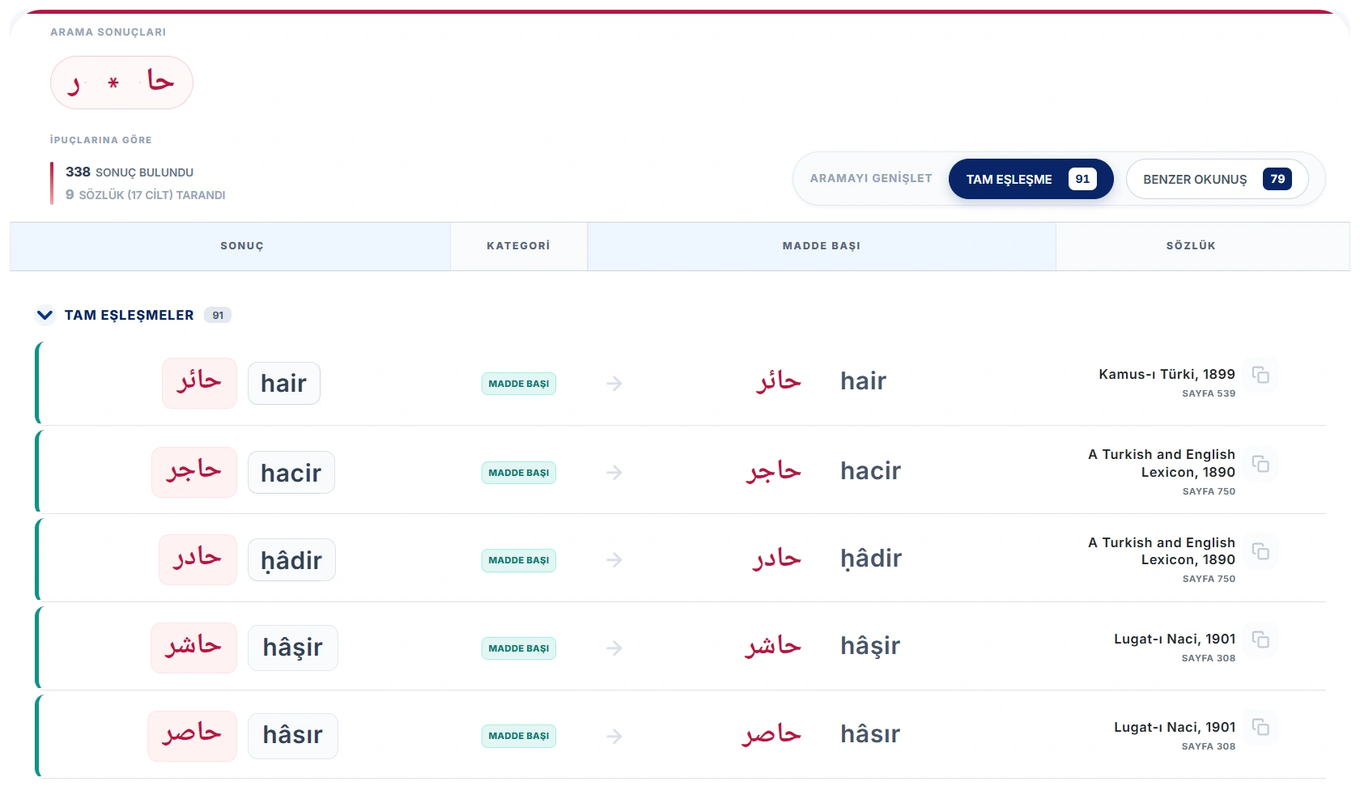
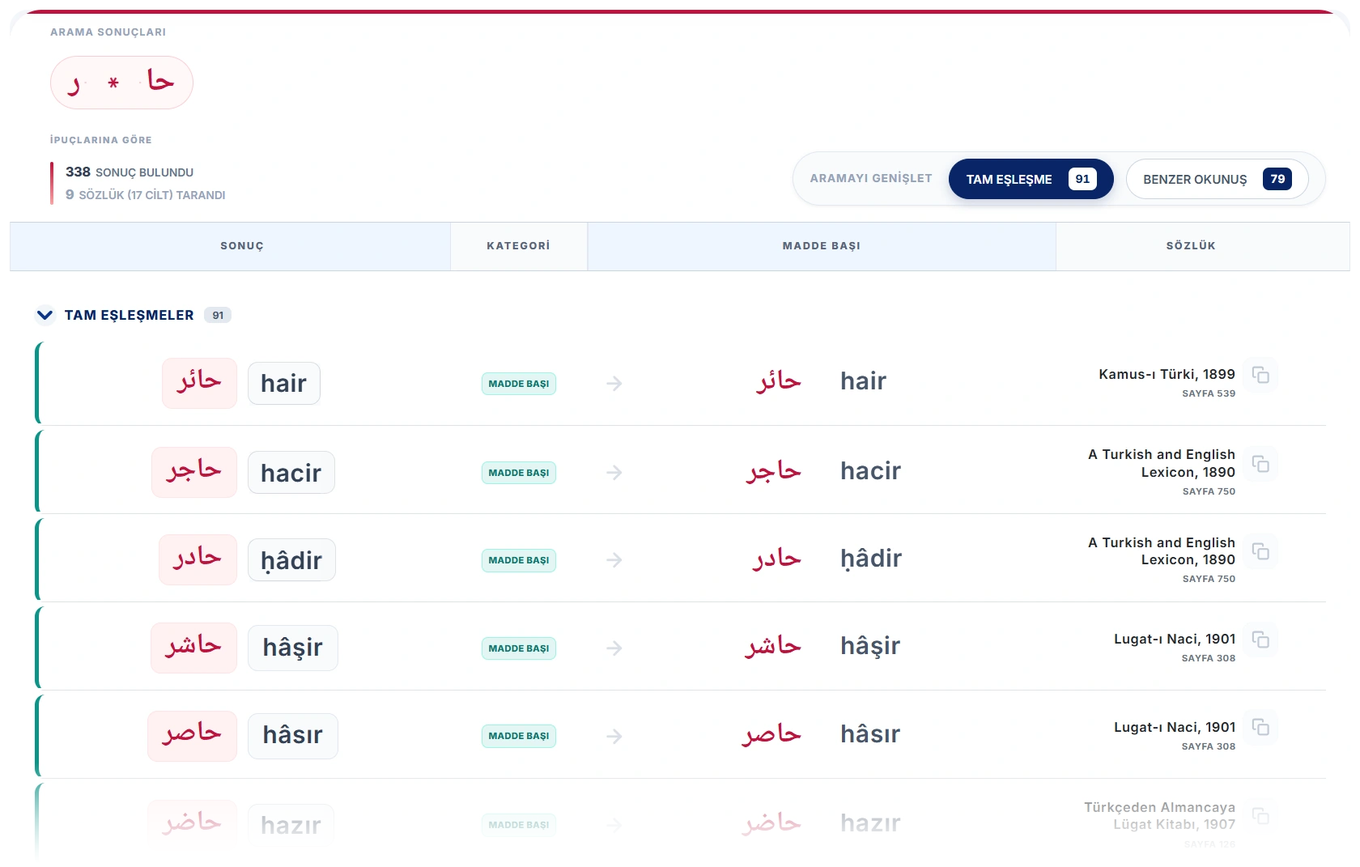
Kilavuz B: kutular ve cozucu klavyesi tek genel gorunumde (B1, B2 etiketleri); sonuclar B4 olarak B'ye tasindi, hazir satiri solan son satir olarak eklendi

diff --git a/pages/kullanim-kilavuzu-tr.html b/pages/kullanim-kilavuzu-tr.html
@@ -81,7 +81,7 @@ h2{margin:3.1rem 0 1.05rem;padding-top:.25rem}
   <div class="layout">
       <nav class="toc" aria-label="Bu sayfada"><p class="toc-title">Bu sayfada</p><a href="#ana-sayfa">Ana Sayfa</a><a href="#cozucu">Kelime Çözücü</a><a href="#sonuclar">Sonuçlar</a><a href="#sozluk-sayfasi">Sözlük Sayfası</a><a href="#cozucu-sonuc">Kelime Çözücü Sonuçları</a></nav>
       <main class="guide-steps">
-    <section aria-labelledby="ana-sayfa"><h2 id="ana-sayfa">Ana Sayfa</h2><p class="section-intro">LexiQamus iki ayrı arama biçimi sunar. <b>Ara</b> sekmesi okuyabildiğiniz bir kelimeyi doğrudan aramak, <b>Kelime Çözücü</b> ise okuyamadığınız bir kelimeyi elinizdeki ipuçlarından yola çıkarak tespit etmek içindir. İki sekme arasında istediğiniz an geçiş yapabilirsiniz.</p><figure class="shot shot-map" style="--nw:1879;--ar:6.8828"><div class="map"><img src="../assets/kilavuz/a-genel.webp?v=2" width="1879" height="273" alt="Ana sayfanın arama alanı: Kelime Çözücü ve Ara sekmeleri, arama kutusu, Ara düğmesi ve sözlük listesi"><a class="pin pin-sec pin-top" href="#cozucu" style="--x:44.39%;--ty:0.0769" aria-label="B">B</a><a class="pin  pin-top" href="#ara-genel" style="--x:55.56%;--ty:0.0769" aria-label="A1">A1</a><a class="pin  pin-bottom" href="#iki-taraf" style="--x:6.55%;--ty:0.7289" aria-label="A2">A2</a><a class="pin  pin-bottom" href="#klavye" style="--x:55.51%;--ty:0.7363" aria-label="A3">A3</a><a class="pin  pin-bottom" href="#sozlukler" style="--x:83.18%;--ty:0.7326" aria-label="A4">A4</a></div></figure><article class="block" id="ara-genel"><h3>Ara sekmesi</h3><p>Arama satırı tek bir çubuktan oluşur: solda kelimeyi Latin harfleriyle, sağda Osmanlı harfleriyle yazabileceğiniz alanlar, hemen yanında da hangi sözlüklerde arama yapılacağını belirlediğiniz liste yer alır.</p></article><article class="block" id="iki-taraf"><h3>Arama kutusu: iki taraf, iki alfabe</h3><p>Çubuğun solundaki <b>OSM</b> ve <b>İNG</b> düğmeleri aramanın neyin içinde yapılacağını belirler. <b>OSM</b> seçiliyken Osmanlıca kelime aranır. <b>İNG</b> seçildiğinde ise arama, sözlüklerdeki İngilizce tanımların içinde yapılır; böylece bir İngilizce kelimeyi tanımında geçiren bütün maddeleri görebilirsiniz.</p><p>Kutunun solundaki alan Latin harfleri, sağındaki alan Osmanlı harfleri içindir. İkisini birlikte kullanabilirsiniz: kelimeyi nasıl okuduğunuzu biliyorsanız Latin tarafına yazmanız yeterlidir.</p><figure class="shot " style="--nw:1686;--ar:11.7902"><img src="../assets/kilavuz/a2-1.webp?v=2" width="1686" height="143" loading="lazy" alt=""></figure></article><article class="block" id="klavye"><h3>Osmanlıca yazmak</h3><p>Osmanlıca tarafa tıkladığınızda ekran klavyesi açılır. Harflere tek tek tıklayarak yazabilirsiniz.</p><p>Fakat klavyeyi kullanmak zorunda değilsiniz. Her tuşun üzerinde, o harfe karşılık gelen fiziksel klavye tuşu yazılıdır: <b>A</b> tuşu ا, <b>B</b> tuşu ب, <b>SHF+S</b> ص harfini verir. Yani kelimeyi kendi klavyenizden hızlıca yazabilir, sadece emin olmadığınız harfler için ekrana bakabilirsiniz.</p><figure class="shot " style="--nw:1592;--ar:3.3305"><img src="../assets/kilavuz/a3-1.webp?v=2" width="1592" height="478" loading="lazy" alt=""></figure></article><article class="block" id="sozlukler"><h3>Sözlük seçimi</h3><p>Öntanımlı olarak bütün sözlüklerde arama yapılır. Listeyi açıp <b>Tümünü Seç</b> işaretini kaldırdığınızda sözlükleri tek tek seçebilirsiniz.</p><p>Bu, aramayı belirli eserlerle sınırlamak istediğinizde işinize yarar: yalnızca seçtiğiniz sözlüklerden gelen sonuçlar listelenir.</p><figure class="shot shot-narrow" style="--s:0.75;--nw:613;--ar:0.8490"><img src="../assets/kilavuz/a4-1.webp?v=2" width="613" height="722" loading="lazy" alt=""></figure></article></section><section aria-labelledby="cozucu"><h2 id="cozucu">Kelime Çözücü</h2><p class="section-intro">El yazması bir metinde okuyamadığınız bir kelimeyle karşılaştığınızda kullanacağınız araç budur. Okuyabildiğiniz harfleri girer, okuyamadıklarınız için işaret bırakırsınız; LexiQamus bu ölçütlere uyan kelimeleri listeler.</p><article class="block" id="kutular"><h3>Kutular</h3><p>Her kutu bir karakteri temsil eder. Boş bırakılan kutu boşluk demektir, dolayısıyla tek kelimeleri olduğu gibi kelime öbeklerini de arayabilirsiniz.</p><p>Kutuların arasındaki <b>+</b> düğmeleriyle araya yeni kutu eklersiniz. Kutuların altındaki zincir işaretleri harflerin bitişik olup olmadığını gösterir; bunu belirttiğinizde sonuçlar daralır.</p><figure class="shot " style="--s:0.75;--nw:742;--ar:5.9839"><img src="../assets/kilavuz/b1-1.webp?v=2" width="742" height="124" loading="lazy" alt=""></figure></article><article class="block" id="cozucu-klavye"><h3>Çözücü klavyesi</h3><p>Bir kutuya tıkladığınızda harf klavyesi açılır. Buradan hem normal harfleri hem de benzer şekilli harfleri temsil eden özel karakterleri girebilirsiniz.</p><p>Üstteki iki yeşil tuş önemlidir. <b>*</b> okunamayan tek bir harf demektir. <b>∞</b> ise adedi bilinmeyen, bir veya birden fazla okunamayan harf anlamına gelir. Aramanız sonuç vermiyorsa, emin olmadığınız kısma bu işaretleri koyarak aramayı genişletebilirsiniz.</p><p>Bir kutuya birden fazla harf de girebilirsiniz. و, د ve ر gibi birbirine karışan harflerde, ihtimallerin hepsini aynı kutuya koyup hepsini birden aratmış olursunuz.</p><figure class="shot " style="--s:0.6;--nw:1004;--ar:1.1319"><img src="../assets/kilavuz/b2-1.webp?v=2" width="1004" height="887" loading="lazy" alt=""></figure></article><article class="block" id="ipucu-dolu"><h3>Doldurulmuş bir örnek</h3><p>Aşağıda okunabilen harflerin girildiği, okunamayan bir harf için <b>*</b> bırakılan ve harfler arası bitişiklik durumunun işaretlendiği bir çözücü satırı görünüyor. <b>Ara</b> düğmesine bastığınızda bu ölçütlere uyan kelimeler listelenir.</p><figure class="shot " style="--s:.68;--nw:669;--ar:5.3095"><img src="../assets/kilavuz/b3-1.webp?v=2" width="669" height="126" loading="lazy" alt=""></figure></article></section><section aria-labelledby="sonuclar"><h2 id="sonuclar">Sonuçlar</h2><p class="section-intro">Her iki arama biçimi de sizi aynı sonuç listesine götürür. Liste dört sütuna ayrılmıştır ve her satır, bir sözlükte geçen tek bir kaydı gösterir.</p><article class="block" id="sutunlar"><h3>Dört sütun</h3><p><b>Sonuç</b>: aradığınız ölçütlere uyan kelimenin kendisi, Osmanlıca yazılışı ve Latin okunuşuyla birlikte.</p><p><b>Kategori</b>: bu kelimenin bulunduğu sözlük maddesiyle ilişkisi.</p><p><b>Madde Başı</b>: kelimenin geçtiği maddenin başlığı. Sonuç kelimesinin kendisi bir madde başı olabileceği gibi, başka bir maddenin içinde de geçiyor olabilir.</p><p><b>Sözlük</b>: kaydın alındığı eser, basım yılı ve sayfa numarası.</p><figure class="shot " style="--nw:1680;--ar:1.6935"><img src="../assets/kilavuz/c1-1.webp?v=5" width="1680" height="992" loading="lazy" alt=""></figure></article><article class="block" id="iki-bolge"><h3>Satırda iki tıklama bölgesi</h3><p>Her satır iki ayrı bölgeye ayrılır ve hangisine tıkladığınız sizi farklı yere götürür. İmleci satırın üzerine getirdiğinizde hangi bölgede olduğunuz renklenerek belli olur.</p><p>Sol bölge, yani sonuç kelimesinin kendisi: <b>Sonuca git</b>. Orijinal sözlük sayfası açılır ve doğrudan kelimenin geçtiği yer karşınıza gelir. Buradan yukarı kaydırarak maddenin başına da çıkabilirsiniz.</p><p>Sağ bölge, yani madde başı ve sözlük bilgisi: <b>Madde başına git</b>. Aynı sayfa açılır, fakat bu kez doğrudan maddenin başından.</p><figure class="shot " style="--nw:1700;--ar:9.6045"><img src="../assets/kilavuz/c2-1.webp" width="1700" height="177" loading="lazy" alt=""></figure><figure class="shot " style="--nw:1700;--ar:9.6045"><img src="../assets/kilavuz/c2-2.webp" width="1700" height="177" loading="lazy" alt=""></figure></article><article class="block" id="kategoriler"><h3>Kelime kategorileri</h3><p>Kategori etiketi, sonucun maddeyle nasıl bir ilişki içinde olduğunu söyler ve satırın solundaki renkli çizgi de aynı ayrımı yapar.</p><p><b>Madde Başı</b>: kelime, sözlükte kendi adına açılmış bir maddenin başlığıdır.</p><p><b>Alt Madde Başı</b>: kelime, bir madde başının altında ayrıca ele alınmış bir alt maddedir.</p><p><b>İlişkili</b>: kelime maddenin başlığı değildir, madde içinde geçmektedir yahut o maddeyle bağlantılıdır.</p><figure class="shot " style="--nw:1700;--ar:5.0595"><img src="../assets/kilavuz/c3-1.webp" width="1700" height="336" loading="lazy" alt=""></figure></article><article class="block" id="geribildirim"><h3>Latin okunuşlar ve geri bildirim</h3><p>Sonuçların yanındaki Latin okunuşlar, Osmanlıca yazılıştan hareketle yapay zekâ tarafından üretilmiştir. Bu yüzden her zaman isabetli olmayabilir.</p><p>Okunuşun yanındaki üç düğme burada devreye girer. Okunuş yanlışsa çarpı düğmesiyle düzeltme önerebilir, doğruysa onay düğmesiyle teyit edebilir, söylemek istediğiniz başka bir şey varsa balon düğmesinden yorumunuzu iletebilirsiniz.</p><figure class="shot shot-narrow" style="--s:0.75;--nw:528;--ar:6.6835"><img src="../assets/kilavuz/c4-1.webp?v=2" width="528" height="79" loading="lazy" alt=""></figure></article><article class="block" id="sozluk-kunye"><h3>Sözlük ve künye</h3><p>Sütunun sağ ucundaki düğme o kaydın künye bilgilerini açar. Eserin adı, yazarı, yılı, cildi ve sayfası burada toplu olarak yer alır.</p><p>Künye penceresinde atıf üç ayrı biçimde hazır olarak sunulur: APA, Chicago ve Harvard. Kullanacağınız biçimi seçip tek düğmeyle kopyalayabilirsiniz.</p><figure class="shot shot-narrow" style="--s:0.75;--nw:578;--ar:3.7532"><img src="../assets/kilavuz/c5-1.webp" width="578" height="154" loading="lazy" alt=""></figure><figure class="shot shot-mid" style="--s:0.45;--nw:1263;--ar:1.1187"><img src="../assets/kilavuz/c5-2.webp?v=2" width="1263" height="1129" loading="lazy" alt=""></figure></article><article class="block" id="yazilis-okunus"><h3>Yazılışa göre ara ve Benzer Okunuş</h3><p><b>Yazılışa Göre Ara</b>, aradığınız ifadenin muhtemel yazılış ve okunuşlarını düğmeler halinde sunar. Bir düğmeye tıkladığınızda arama o yazılışa göre yenilenir. Aynı kelimenin sözlüklerde farklı imlalarla kayıtlı olabileceği düşünülürse, sonuca ulaşmanın en kısa yollarından biri budur.</p><p><b>Benzer Okunuş</b> ise aramanızı genişletir: yazılışı farklı olsa da okunuşu aradığınıza yakın düşen sonuçları getirir. Yanındaki sayı, bu genişletmenin kaç sonuç eklediğini gösterir.</p><figure class="shot " style="--s:0.75;--nw:678;--ar:3.2286"><img src="../assets/kilavuz/c6-1.webp?v=2" width="678" height="210" loading="lazy" alt=""></figure></article><article class="block" id="tara"><h3>Benzer Eşleşmeleri Tara</h3><p>Aradığınızı listede bulamadıysanız sayfanın altındaki bu düğmeye basın.</p><p>LexiQamus, girdiğiniz yazılışa harf harf yakın duran kelimeleri tarar ve numaralı bir liste halinde önünüze getirir. Yanlış okunmuş tek bir harf yüzünden gözden kaçan kelime çoğu zaman bu listede çıkar.</p><figure class="shot shot-narrow" style="--s:0.75;--nw:387;--ar:3.7212"><img src="../assets/kilavuz/c7-1.webp?v=2" width="387" height="104" loading="lazy" alt=""></figure><figure class="shot shot-mid" style="--nw:528;--ar:0.7021"><img src="../assets/kilavuz/c7-2.webp" width="528" height="752" loading="lazy" alt=""></figure></article></section><section aria-labelledby="sozluk-sayfasi"><h2 id="sozluk-sayfasi">Sözlük Sayfası</h2><p class="section-intro">Bir sonuca yahut madde başına tıkladığınızda sözlüğün orijinal sayfası bir pencerede açılır. Bu pencere yalnızca taramayı göstermez: o sayfada dijitalleştirilmiş kelimeleri tarama üzerinde işaretler ve her birinin dijital karşılığını gösterir.</p><article class="block" id="dilim-sutun-sayfa"><h3>Dilim, Sütun, Sayfa</h3><p>Pencere ilk açıldığında <b>Dilim</b> görünümü etkindir. Alttaki şerit, aradığınız yerin sözlüğün kaçıncı sayfasında, hangi sütununda ve o sütunun kaçıncı diliminde olduğunu söyler.</p><p><b>Sütun</b>'a tıkladığınızda sütunun tamamı açılır. <b>Sayfa</b>'ya tıkladığınızda ise sayfanın tamamını görürsünüz. Dijitalleştirilmiş kelimeler üç görünümde de işaretli kalır.</p><figure class="shot " style="--nw:1428;--ar:1.8889"><img src="../assets/kilavuz/d1-1.webp" width="1428" height="756" loading="lazy" alt=""></figure><figure class="shot " style="--nw:1432;--ar:1.6947"><img src="../assets/kilavuz/d1-2.webp" width="1432" height="845" loading="lazy" alt=""></figure><figure class="shot " style="--nw:1436;--ar:1.6974"><img src="../assets/kilavuz/d1-3.webp" width="1436" height="846" loading="lazy" alt=""></figure></article><article class="block" id="renkli-kutular"><h3>Renkli kutular</h3><p>Maddede dijitalleştirilmiş olan kelimeler tarama üzerinde kutu içine alınır. Kutuların rengi kelime kategorisine göre değişir; sonuç listesindeki kategori ayrımının aynısı burada da geçerlidir.</p><p>Gri duran kelimeler de dijitalleştirilmiştir. Üzerlerine geldiğinizde renklenir ve dijital karşılıkları görünür.</p><figure class="shot " style="--nw:947;--ar:1.3886"><img src="../assets/kilavuz/d2-1.webp" width="947" height="682" loading="lazy" alt=""></figure></article><article class="block" id="kelime-uzerine"><h3>Kelimenin dijital karşılığı</h3><p>Bir kutunun üzerine geldiğinizde kelimenin Osmanlıca yazılışı ve Latin okunuşu alt alta belirir.</p><p>Kelime bir öbeğin parçasıysa iki katman birden görürsünüz: üstte imlecin bulunduğu kelimenin dijitali, altta öbeğin tamamının dijitali.</p><figure class="shot shot-narrow" style="--nw:222;--ar:0.6491"><img src="../assets/kilavuz/d3-1.webp" width="222" height="342" loading="lazy" alt=""></figure><figure class="shot shot-narrow" style="--nw:357;--ar:1.0142"><img src="../assets/kilavuz/d3-2.webp" width="357" height="352" loading="lazy" alt=""></figure></article><article class="block" id="kelimeye-tikla"><h3>Kelimeye tıklamak</h3><p>Tarama üzerindeki bir kelimeye yahut beliren dijital değerlerin üzerine tıkladığınızda o kelime için yeni bir arama başlar ve yeni sekmede açılır. Böylece okuduğunuz maddeden ayrılmadan yan yollara girebilirsiniz.</p><figure class="shot shot-narrow" style="--nw:357;--ar:1.0142"><img src="../assets/kilavuz/d4-1.webp" width="357" height="352" loading="lazy" alt=""></figure></article><article class="block" id="hata-bildir"><h3>Hata bildirme</h3><p>Dijitalleştirmede bir hata olduğunu düşünüyorsanız kelimenin üzerine gelin ve yanında beliren uyarı işaretine basın.</p><p>Açılan pencerede kelime hazır olarak gelir. Altındaki alana hatayı yahut önerdiğiniz düzeltmeyi yazıp gönderirsiniz.</p><figure class="shot shot-narrow" style="--nw:301;--ar:0.8776"><img src="../assets/kilavuz/d5-1.webp" width="301" height="343" loading="lazy" alt=""></figure><figure class="shot " style="--nw:756;--ar:1.8217"><img src="../assets/kilavuz/d5-2.webp" width="756" height="415" loading="lazy" alt=""></figure></article><article class="block" id="madde-gezinme"><h3>Önceki ve sonraki madde</h3><p>Pencerenin iki yanındaki oklarla maddeler arasında tek tıkla gezinebilirsiniz. Oklar dilim, sütun ve sayfa görünümlerinin hepsinde çalışır.</p><figure class="shot shot-narrow" style="--nw:413;--ar:1.9390"><img src="../assets/kilavuz/d6-1.webp" width="413" height="213" loading="lazy" alt=""></figure></article></section><section aria-labelledby="cozucu-sonuc"><h2 id="cozucu-sonuc">Kelime Çözücü Sonuçları</h2><p class="section-intro">Çözücüyle yapılan aramanın sonuç sayfası, yukarıda anlatılan listeyle aynı şekilde çalışır. Yalnızca iki farkı vardır.</p><article class="block" id="ipuclarina-gore"><h3>İpuçlarına göre</h3><p>Sonuçların üstünde, aramayı hangi ipuçlarıyla yaptığınız kutu dizisi halinde durur. Böylece listeye bakarken hangi harfleri girdiğinizi, nereye <b>*</b> veya <b>∞</b> koyduğunuzu görebilirsiniz.</p><p>Sonuç sayısının yanındaki <b>İpuçlarına göre</b> ifadesi de listenin bu ölçütlere göre oluşturulduğunu belirtir.</p><figure class="shot " style="--nw:1664;--ar:4.9672"><img src="../assets/kilavuz/e1-1.webp?v=2" width="1664" height="335" loading="lazy" alt=""></figure></article><article class="block" id="daha-fazla"><h3>Daha fazla sonuç</h3><p>Çözücü aramaları çok sayıda sonuç verebildiği için liste bir kısmıyla açılır. Sayfanın altındaki düğme kaç sonucun gösterildiğini ve geriye kaç tane kaldığını söyler; bastığınızda listenin devamı yüklenir.</p><figure class="shot shot-narrow" style="--nw:750;--ar:5.0000"><img src="../assets/kilavuz/e2-1.webp" width="750" height="150" loading="lazy" alt=""></figure></article></section>
+    <section aria-labelledby="ana-sayfa"><h2 id="ana-sayfa">Ana Sayfa</h2><p class="section-intro">LexiQamus iki ayrı arama biçimi sunar. <b>Ara</b> sekmesi okuyabildiğiniz bir kelimeyi doğrudan aramak, <b>Kelime Çözücü</b> ise okuyamadığınız bir kelimeyi elinizdeki ipuçlarından yola çıkarak tespit etmek içindir. İki sekme arasında istediğiniz an geçiş yapabilirsiniz.</p><figure class="shot shot-map" style="--nw:1879;--ar:6.8828"><div class="map"><img src="../assets/kilavuz/a-genel.webp?v=2" width="1879" height="273" alt="Ana sayfanın arama alanı: Kelime Çözücü ve Ara sekmeleri, arama kutusu, Ara düğmesi ve sözlük listesi"><a class="pin pin-sec pin-top" href="#cozucu" style="--x:44.39%;--ty:0.0769" aria-label="B">B</a><a class="pin  pin-top" href="#ara-genel" style="--x:55.56%;--ty:0.0769" aria-label="A1">A1</a><a class="pin  pin-bottom" href="#iki-taraf" style="--x:6.55%;--ty:0.7289" aria-label="A2">A2</a><a class="pin  pin-bottom" href="#klavye" style="--x:55.51%;--ty:0.7363" aria-label="A3">A3</a><a class="pin  pin-bottom" href="#sozlukler" style="--x:83.18%;--ty:0.7326" aria-label="A4">A4</a></div></figure><article class="block" id="ara-genel"><h3>Ara sekmesi</h3><p>Arama satırı tek bir çubuktan oluşur: solda kelimeyi Latin harfleriyle, sağda Osmanlı harfleriyle yazabileceğiniz alanlar, hemen yanında da hangi sözlüklerde arama yapılacağını belirlediğiniz liste yer alır.</p></article><article class="block" id="iki-taraf"><h3>Arama kutusu: iki taraf, iki alfabe</h3><p>Çubuğun solundaki <b>OSM</b> ve <b>İNG</b> düğmeleri aramanın neyin içinde yapılacağını belirler. <b>OSM</b> seçiliyken Osmanlıca kelime aranır. <b>İNG</b> seçildiğinde ise arama, sözlüklerdeki İngilizce tanımların içinde yapılır; böylece bir İngilizce kelimeyi tanımında geçiren bütün maddeleri görebilirsiniz.</p><p>Kutunun solundaki alan Latin harfleri, sağındaki alan Osmanlı harfleri içindir. İkisini birlikte kullanabilirsiniz: kelimeyi nasıl okuduğunuzu biliyorsanız Latin tarafına yazmanız yeterlidir.</p><figure class="shot " style="--nw:1686;--ar:11.7902"><img src="../assets/kilavuz/a2-1.webp?v=2" width="1686" height="143" loading="lazy" alt=""></figure></article><article class="block" id="klavye"><h3>Osmanlıca yazmak</h3><p>Osmanlıca tarafa tıkladığınızda ekran klavyesi açılır. Harflere tek tek tıklayarak yazabilirsiniz.</p><p>Fakat klavyeyi kullanmak zorunda değilsiniz. Her tuşun üzerinde, o harfe karşılık gelen fiziksel klavye tuşu yazılıdır: <b>A</b> tuşu ا, <b>B</b> tuşu ب, <b>SHF+S</b> ص harfini verir. Yani kelimeyi kendi klavyenizden hızlıca yazabilir, sadece emin olmadığınız harfler için ekrana bakabilirsiniz.</p><figure class="shot " style="--nw:1592;--ar:3.3305"><img src="../assets/kilavuz/a3-1.webp?v=2" width="1592" height="478" loading="lazy" alt=""></figure></article><article class="block" id="sozlukler"><h3>Sözlük seçimi</h3><p>Öntanımlı olarak bütün sözlüklerde arama yapılır. Listeyi açıp <b>Tümünü Seç</b> işaretini kaldırdığınızda sözlükleri tek tek seçebilirsiniz.</p><p>Bu, aramayı belirli eserlerle sınırlamak istediğinizde işinize yarar: yalnızca seçtiğiniz sözlüklerden gelen sonuçlar listelenir.</p><figure class="shot shot-narrow" style="--s:0.75;--nw:613;--ar:0.8490"><img src="../assets/kilavuz/a4-1.webp?v=2" width="613" height="722" loading="lazy" alt=""></figure></article></section><section aria-labelledby="cozucu"><h2 id="cozucu">Kelime Çözücü</h2><p class="section-intro">El yazması bir metinde okuyamadığınız bir kelimeyle karşılaştığınızda kullanacağınız araç budur. Okuyabildiğiniz harfleri girer, okuyamadıklarınız için işaret bırakırsınız; LexiQamus bu ölçütlere uyan kelimeleri listeler.</p><figure class="shot shot-map" style="--nw:1484;--ar:1.2938"><div class="map"><img src="../assets/kilavuz/b-genel.webp" width="1484" height="1147" alt="Kelime Çözücü: harf kutuları ve altında açılan çözücü klavyesi"><a class="pin pin-top" href="#kutular" style="--x:47.98%;--ty:0.0262" aria-label="B1">B1</a><a class="pin pin-bottom" href="#cozucu-klavye" style="--x:50.00%;--ty:0.9738" aria-label="B2">B2</a></div></figure><article class="block" id="kutular"><h3>Kutular</h3><p>Her kutu bir karakteri temsil eder. Boş bırakılan kutu boşluk demektir, dolayısıyla tek kelimeleri olduğu gibi kelime öbeklerini de arayabilirsiniz.</p><p>Kutuların arasındaki <b>+</b> düğmeleriyle araya yeni kutu eklersiniz. Kutuların altındaki zincir işaretleri harflerin bitişik olup olmadığını gösterir; bunu belirttiğinizde sonuçlar daralır.</p></article><article class="block" id="cozucu-klavye"><h3>Çözücü klavyesi</h3><p>Bir kutuya tıkladığınızda harf klavyesi açılır. Buradan hem normal harfleri hem de benzer şekilli harfleri temsil eden özel karakterleri girebilirsiniz.</p><p>Üstteki iki yeşil tuş önemlidir. <b>*</b> okunamayan tek bir harf demektir. <b>∞</b> ise adedi bilinmeyen, bir veya birden fazla okunamayan harf anlamına gelir. Aramanız sonuç vermiyorsa, emin olmadığınız kısma bu işaretleri koyarak aramayı genişletebilirsiniz.</p><p>Bir kutuya birden fazla harf de girebilirsiniz. و, د ve ر gibi birbirine karışan harflerde, ihtimallerin hepsini aynı kutuya koyup hepsini birden aratmış olursunuz.</p></article><article class="block" id="ipucu-dolu"><h3>Doldurulmuş bir örnek</h3><p>Aşağıda okunabilen harflerin girildiği, okunamayan bir harf için <b>*</b> bırakılan ve harfler arası bitişiklik durumunun işaretlendiği bir çözücü satırı görünüyor. <b>Ara</b> düğmesine bastığınızda bu ölçütlere uyan kelimeler listelenir.</p><figure class="shot " style="--s:.68;--nw:669;--ar:5.3095"><img src="../assets/kilavuz/b3-1.webp?v=2" width="669" height="126" loading="lazy" alt=""></figure></article><article class="block" id="cozucu-sonuclar"><h3>Sonuçlar</h3><p><b>Sonuç</b>: aradığınız ölçütlere uyan kelimenin kendisi, Osmanlıca yazılışı ve Latin okunuşuyla birlikte.</p><p><b>Kategori</b>: bu kelimenin bulunduğu sözlük maddesiyle ilişkisi.</p><p><b>Madde Başı</b>: kelimenin geçtiği maddenin başlığı. Sonuç kelimesinin kendisi bir madde başı olabileceği gibi, başka bir maddenin içinde de geçiyor olabilir.</p><p><b>Sözlük</b>: kaydın alındığı eser, basım yılı ve sayfa numarası.</p><figure class="shot " style="--nw:1680;--ar:1.5686"><img src="../assets/kilavuz/c1-1.webp?v=6" width="1680" height="1071" loading="lazy" alt=""></figure></article></section><section aria-labelledby="sonuclar"><h2 id="sonuclar">Sonuçlar</h2><p class="section-intro">Her iki arama biçimi de sizi aynı sonuç listesine götürür. Liste dört sütuna ayrılmıştır ve her satır, bir sözlükte geçen tek bir kaydı gösterir.</p><article class="block" id="iki-bolge"><h3>Satırda iki tıklama bölgesi</h3><p>Her satır iki ayrı bölgeye ayrılır ve hangisine tıkladığınız sizi farklı yere götürür. İmleci satırın üzerine getirdiğinizde hangi bölgede olduğunuz renklenerek belli olur.</p><p>Sol bölge, yani sonuç kelimesinin kendisi: <b>Sonuca git</b>. Orijinal sözlük sayfası açılır ve doğrudan kelimenin geçtiği yer karşınıza gelir. Buradan yukarı kaydırarak maddenin başına da çıkabilirsiniz.</p><p>Sağ bölge, yani madde başı ve sözlük bilgisi: <b>Madde başına git</b>. Aynı sayfa açılır, fakat bu kez doğrudan maddenin başından.</p><figure class="shot " style="--nw:1700;--ar:9.6045"><img src="../assets/kilavuz/c2-1.webp" width="1700" height="177" loading="lazy" alt=""></figure><figure class="shot " style="--nw:1700;--ar:9.6045"><img src="../assets/kilavuz/c2-2.webp" width="1700" height="177" loading="lazy" alt=""></figure></article><article class="block" id="kategoriler"><h3>Kelime kategorileri</h3><p>Kategori etiketi, sonucun maddeyle nasıl bir ilişki içinde olduğunu söyler ve satırın solundaki renkli çizgi de aynı ayrımı yapar.</p><p><b>Madde Başı</b>: kelime, sözlükte kendi adına açılmış bir maddenin başlığıdır.</p><p><b>Alt Madde Başı</b>: kelime, bir madde başının altında ayrıca ele alınmış bir alt maddedir.</p><p><b>İlişkili</b>: kelime maddenin başlığı değildir, madde içinde geçmektedir yahut o maddeyle bağlantılıdır.</p><figure class="shot " style="--nw:1700;--ar:5.0595"><img src="../assets/kilavuz/c3-1.webp" width="1700" height="336" loading="lazy" alt=""></figure></article><article class="block" id="geribildirim"><h3>Latin okunuşlar ve geri bildirim</h3><p>Sonuçların yanındaki Latin okunuşlar, Osmanlıca yazılıştan hareketle yapay zekâ tarafından üretilmiştir. Bu yüzden her zaman isabetli olmayabilir.</p><p>Okunuşun yanındaki üç düğme burada devreye girer. Okunuş yanlışsa çarpı düğmesiyle düzeltme önerebilir, doğruysa onay düğmesiyle teyit edebilir, söylemek istediğiniz başka bir şey varsa balon düğmesinden yorumunuzu iletebilirsiniz.</p><figure class="shot shot-narrow" style="--s:0.75;--nw:528;--ar:6.6835"><img src="../assets/kilavuz/c4-1.webp?v=2" width="528" height="79" loading="lazy" alt=""></figure></article><article class="block" id="sozluk-kunye"><h3>Sözlük ve künye</h3><p>Sütunun sağ ucundaki düğme o kaydın künye bilgilerini açar. Eserin adı, yazarı, yılı, cildi ve sayfası burada toplu olarak yer alır.</p><p>Künye penceresinde atıf üç ayrı biçimde hazır olarak sunulur: APA, Chicago ve Harvard. Kullanacağınız biçimi seçip tek düğmeyle kopyalayabilirsiniz.</p><figure class="shot shot-narrow" style="--s:0.75;--nw:578;--ar:3.7532"><img src="../assets/kilavuz/c5-1.webp" width="578" height="154" loading="lazy" alt=""></figure><figure class="shot shot-mid" style="--s:0.45;--nw:1263;--ar:1.1187"><img src="../assets/kilavuz/c5-2.webp?v=2" width="1263" height="1129" loading="lazy" alt=""></figure></article><article class="block" id="yazilis-okunus"><h3>Yazılışa göre ara ve Benzer Okunuş</h3><p><b>Yazılışa Göre Ara</b>, aradığınız ifadenin muhtemel yazılış ve okunuşlarını düğmeler halinde sunar. Bir düğmeye tıkladığınızda arama o yazılışa göre yenilenir. Aynı kelimenin sözlüklerde farklı imlalarla kayıtlı olabileceği düşünülürse, sonuca ulaşmanın en kısa yollarından biri budur.</p><p><b>Benzer Okunuş</b> ise aramanızı genişletir: yazılışı farklı olsa da okunuşu aradığınıza yakın düşen sonuçları getirir. Yanındaki sayı, bu genişletmenin kaç sonuç eklediğini gösterir.</p><figure class="shot " style="--s:0.75;--nw:678;--ar:3.2286"><img src="../assets/kilavuz/c6-1.webp?v=2" width="678" height="210" loading="lazy" alt=""></figure></article><article class="block" id="tara"><h3>Benzer Eşleşmeleri Tara</h3><p>Aradığınızı listede bulamadıysanız sayfanın altındaki bu düğmeye basın.</p><p>LexiQamus, girdiğiniz yazılışa harf harf yakın duran kelimeleri tarar ve numaralı bir liste halinde önünüze getirir. Yanlış okunmuş tek bir harf yüzünden gözden kaçan kelime çoğu zaman bu listede çıkar.</p><figure class="shot shot-narrow" style="--s:0.75;--nw:387;--ar:3.7212"><img src="../assets/kilavuz/c7-1.webp?v=2" width="387" height="104" loading="lazy" alt=""></figure><figure class="shot shot-mid" style="--nw:528;--ar:0.7021"><img src="../assets/kilavuz/c7-2.webp" width="528" height="752" loading="lazy" alt=""></figure></article></section><section aria-labelledby="sozluk-sayfasi"><h2 id="sozluk-sayfasi">Sözlük Sayfası</h2><p class="section-intro">Bir sonuca yahut madde başına tıkladığınızda sözlüğün orijinal sayfası bir pencerede açılır. Bu pencere yalnızca taramayı göstermez: o sayfada dijitalleştirilmiş kelimeleri tarama üzerinde işaretler ve her birinin dijital karşılığını gösterir.</p><article class="block" id="dilim-sutun-sayfa"><h3>Dilim, Sütun, Sayfa</h3><p>Pencere ilk açıldığında <b>Dilim</b> görünümü etkindir. Alttaki şerit, aradığınız yerin sözlüğün kaçıncı sayfasında, hangi sütununda ve o sütunun kaçıncı diliminde olduğunu söyler.</p><p><b>Sütun</b>'a tıkladığınızda sütunun tamamı açılır. <b>Sayfa</b>'ya tıkladığınızda ise sayfanın tamamını görürsünüz. Dijitalleştirilmiş kelimeler üç görünümde de işaretli kalır.</p><figure class="shot " style="--nw:1428;--ar:1.8889"><img src="../assets/kilavuz/d1-1.webp" width="1428" height="756" loading="lazy" alt=""></figure><figure class="shot " style="--nw:1432;--ar:1.6947"><img src="../assets/kilavuz/d1-2.webp" width="1432" height="845" loading="lazy" alt=""></figure><figure class="shot " style="--nw:1436;--ar:1.6974"><img src="../assets/kilavuz/d1-3.webp" width="1436" height="846" loading="lazy" alt=""></figure></article><article class="block" id="renkli-kutular"><h3>Renkli kutular</h3><p>Maddede dijitalleştirilmiş olan kelimeler tarama üzerinde kutu içine alınır. Kutuların rengi kelime kategorisine göre değişir; sonuç listesindeki kategori ayrımının aynısı burada da geçerlidir.</p><p>Gri duran kelimeler de dijitalleştirilmiştir. Üzerlerine geldiğinizde renklenir ve dijital karşılıkları görünür.</p><figure class="shot " style="--nw:947;--ar:1.3886"><img src="../assets/kilavuz/d2-1.webp" width="947" height="682" loading="lazy" alt=""></figure></article><article class="block" id="kelime-uzerine"><h3>Kelimenin dijital karşılığı</h3><p>Bir kutunun üzerine geldiğinizde kelimenin Osmanlıca yazılışı ve Latin okunuşu alt alta belirir.</p><p>Kelime bir öbeğin parçasıysa iki katman birden görürsünüz: üstte imlecin bulunduğu kelimenin dijitali, altta öbeğin tamamının dijitali.</p><figure class="shot shot-narrow" style="--nw:222;--ar:0.6491"><img src="../assets/kilavuz/d3-1.webp" width="222" height="342" loading="lazy" alt=""></figure><figure class="shot shot-narrow" style="--nw:357;--ar:1.0142"><img src="../assets/kilavuz/d3-2.webp" width="357" height="352" loading="lazy" alt=""></figure></article><article class="block" id="kelimeye-tikla"><h3>Kelimeye tıklamak</h3><p>Tarama üzerindeki bir kelimeye yahut beliren dijital değerlerin üzerine tıkladığınızda o kelime için yeni bir arama başlar ve yeni sekmede açılır. Böylece okuduğunuz maddeden ayrılmadan yan yollara girebilirsiniz.</p><figure class="shot shot-narrow" style="--nw:357;--ar:1.0142"><img src="../assets/kilavuz/d4-1.webp" width="357" height="352" loading="lazy" alt=""></figure></article><article class="block" id="hata-bildir"><h3>Hata bildirme</h3><p>Dijitalleştirmede bir hata olduğunu düşünüyorsanız kelimenin üzerine gelin ve yanında beliren uyarı işaretine basın.</p><p>Açılan pencerede kelime hazır olarak gelir. Altındaki alana hatayı yahut önerdiğiniz düzeltmeyi yazıp gönderirsiniz.</p><figure class="shot shot-narrow" style="--nw:301;--ar:0.8776"><img src="../assets/kilavuz/d5-1.webp" width="301" height="343" loading="lazy" alt=""></figure><figure class="shot " style="--nw:756;--ar:1.8217"><img src="../assets/kilavuz/d5-2.webp" width="756" height="415" loading="lazy" alt=""></figure></article><article class="block" id="madde-gezinme"><h3>Önceki ve sonraki madde</h3><p>Pencerenin iki yanındaki oklarla maddeler arasında tek tıkla gezinebilirsiniz. Oklar dilim, sütun ve sayfa görünümlerinin hepsinde çalışır.</p><figure class="shot shot-narrow" style="--nw:413;--ar:1.9390"><img src="../assets/kilavuz/d6-1.webp" width="413" height="213" loading="lazy" alt=""></figure></article></section><section aria-labelledby="cozucu-sonuc"><h2 id="cozucu-sonuc">Kelime Çözücü Sonuçları</h2><p class="section-intro">Çözücüyle yapılan aramanın sonuç sayfası, yukarıda anlatılan listeyle aynı şekilde çalışır. Yalnızca iki farkı vardır.</p><article class="block" id="ipuclarina-gore"><h3>İpuçlarına göre</h3><p>Sonuçların üstünde, aramayı hangi ipuçlarıyla yaptığınız kutu dizisi halinde durur. Böylece listeye bakarken hangi harfleri girdiğinizi, nereye <b>*</b> veya <b>∞</b> koyduğunuzu görebilirsiniz.</p><p>Sonuç sayısının yanındaki <b>İpuçlarına göre</b> ifadesi de listenin bu ölçütlere göre oluşturulduğunu belirtir.</p><figure class="shot " style="--nw:1664;--ar:4.9672"><img src="../assets/kilavuz/e1-1.webp?v=2" width="1664" height="335" loading="lazy" alt=""></figure></article><article class="block" id="daha-fazla"><h3>Daha fazla sonuç</h3><p>Çözücü aramaları çok sayıda sonuç verebildiği için liste bir kısmıyla açılır. Sayfanın altındaki düğme kaç sonucun gösterildiğini ve geriye kaç tane kaldığını söyler; bastığınızda listenin devamı yüklenir.</p><figure class="shot shot-narrow" style="--nw:750;--ar:5.0000"><img src="../assets/kilavuz/e2-1.webp" width="750" height="150" loading="lazy" alt=""></figure></article></section>
       </main>
   </div>
 </div>
